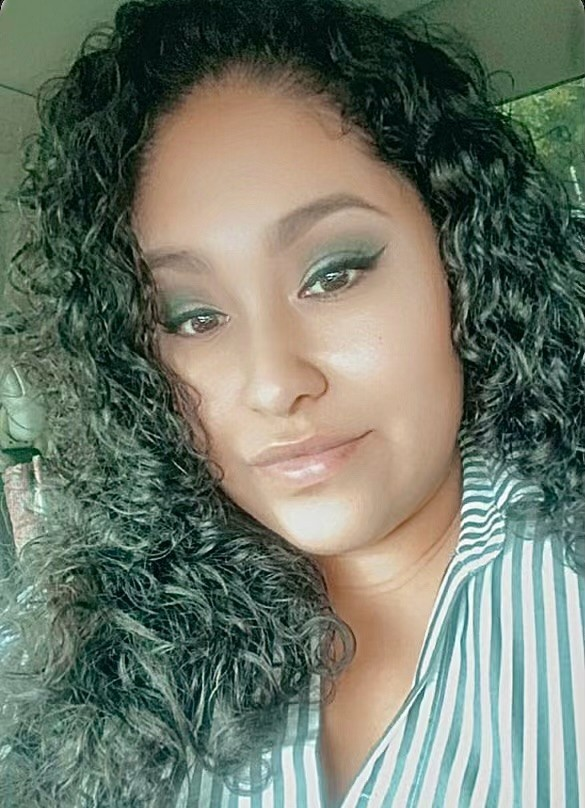
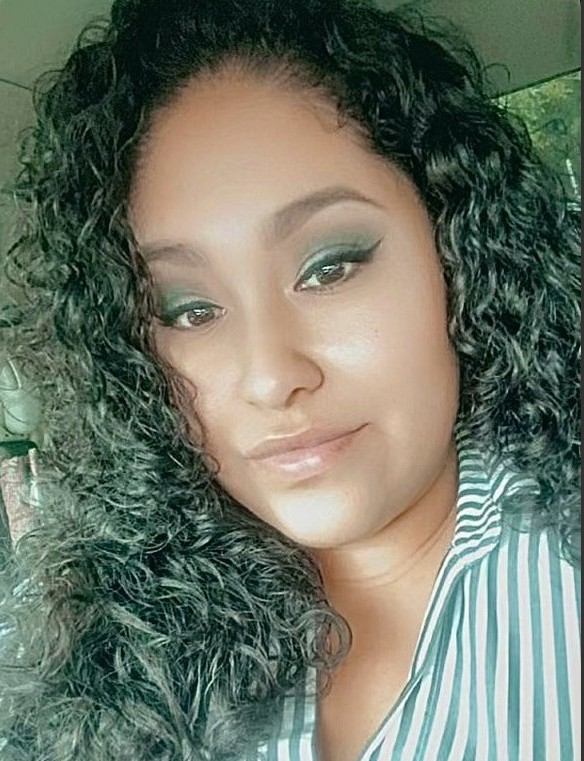
photo updates

diff --git a/team.html b/team.html
@@ -435,7 +435,7 @@
           <!-- Paula -->
           <article class="team-card">
             <div class="team-photo" aria-hidden="true">
-              <img src="images/placeholder-person.jpg" alt="" />
+              <img src="images/profilepictures/paula-prof.jpg" alt="" />
             </div>
             <div class="team-info">
               <div class="team-text">
